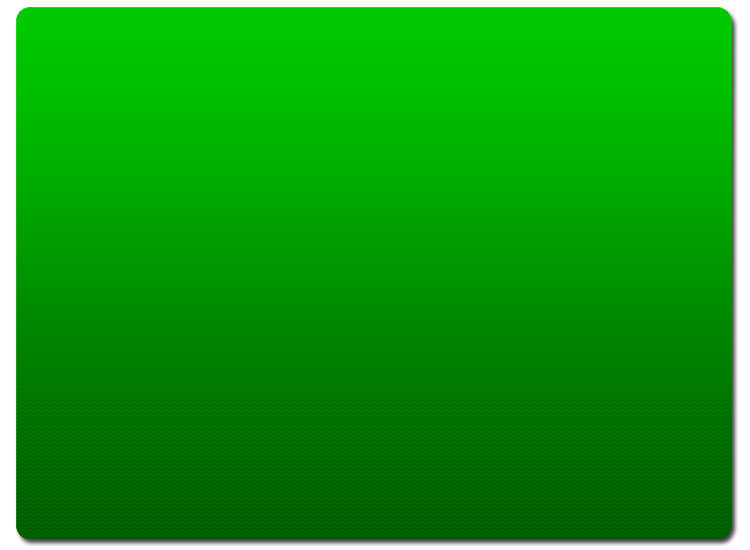
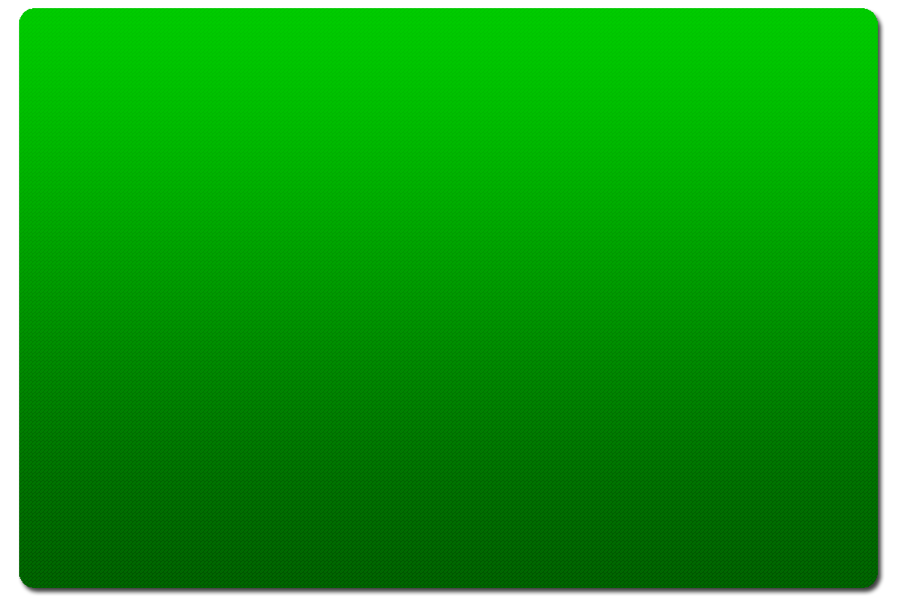
1. Enkele images aangepast. 2. Site vertaald in het nederlands

Changed region(s): [[0.9507, 0.0618, 0.9813, 0.9582]]

diff --git a/yahtzee/resources/css/gameStyle.css b/yahtzee/resources/css/gameStyle.css
@@ -1,7 +1,7 @@
 #container {
     margin-left:auto;
     margin-right:auto;
-    width:1000px;
+    width:1150px;
 }
 
 #possibleScores {
@@ -13,7 +13,7 @@
 #scoresContainer {
     background-image:url(../images/gameScores.png);
     width:250px;
-    height:550px;
+    height:600px;
     background-repeat:no-repeat;
     float: left;
     margin: 0px auto;
@@ -21,15 +21,15 @@
 }
 
 #gameContainer {
-    width:750px;
-    height:550px;
+    width:900px;
+    height:600px;
     background-image:url(../images/gameBg.png);
     background-repeat:no-repeat;
     float:right;
 }
 
 #game {
-    margin: 0px 30px 0px 30px;
+    margin: 30px 30px 30px 30px;
 }
 
 #chatLog {
@@ -81,7 +81,7 @@ img.logo{
 #header{
     background-image:url( ../images/gameHeaderBg.png );
     background-repeat:no-repeat;
-    width:1000px;
+    width:1150px;
     height:100px;
     margin-top:0px;
     margin-bottom:10px;
